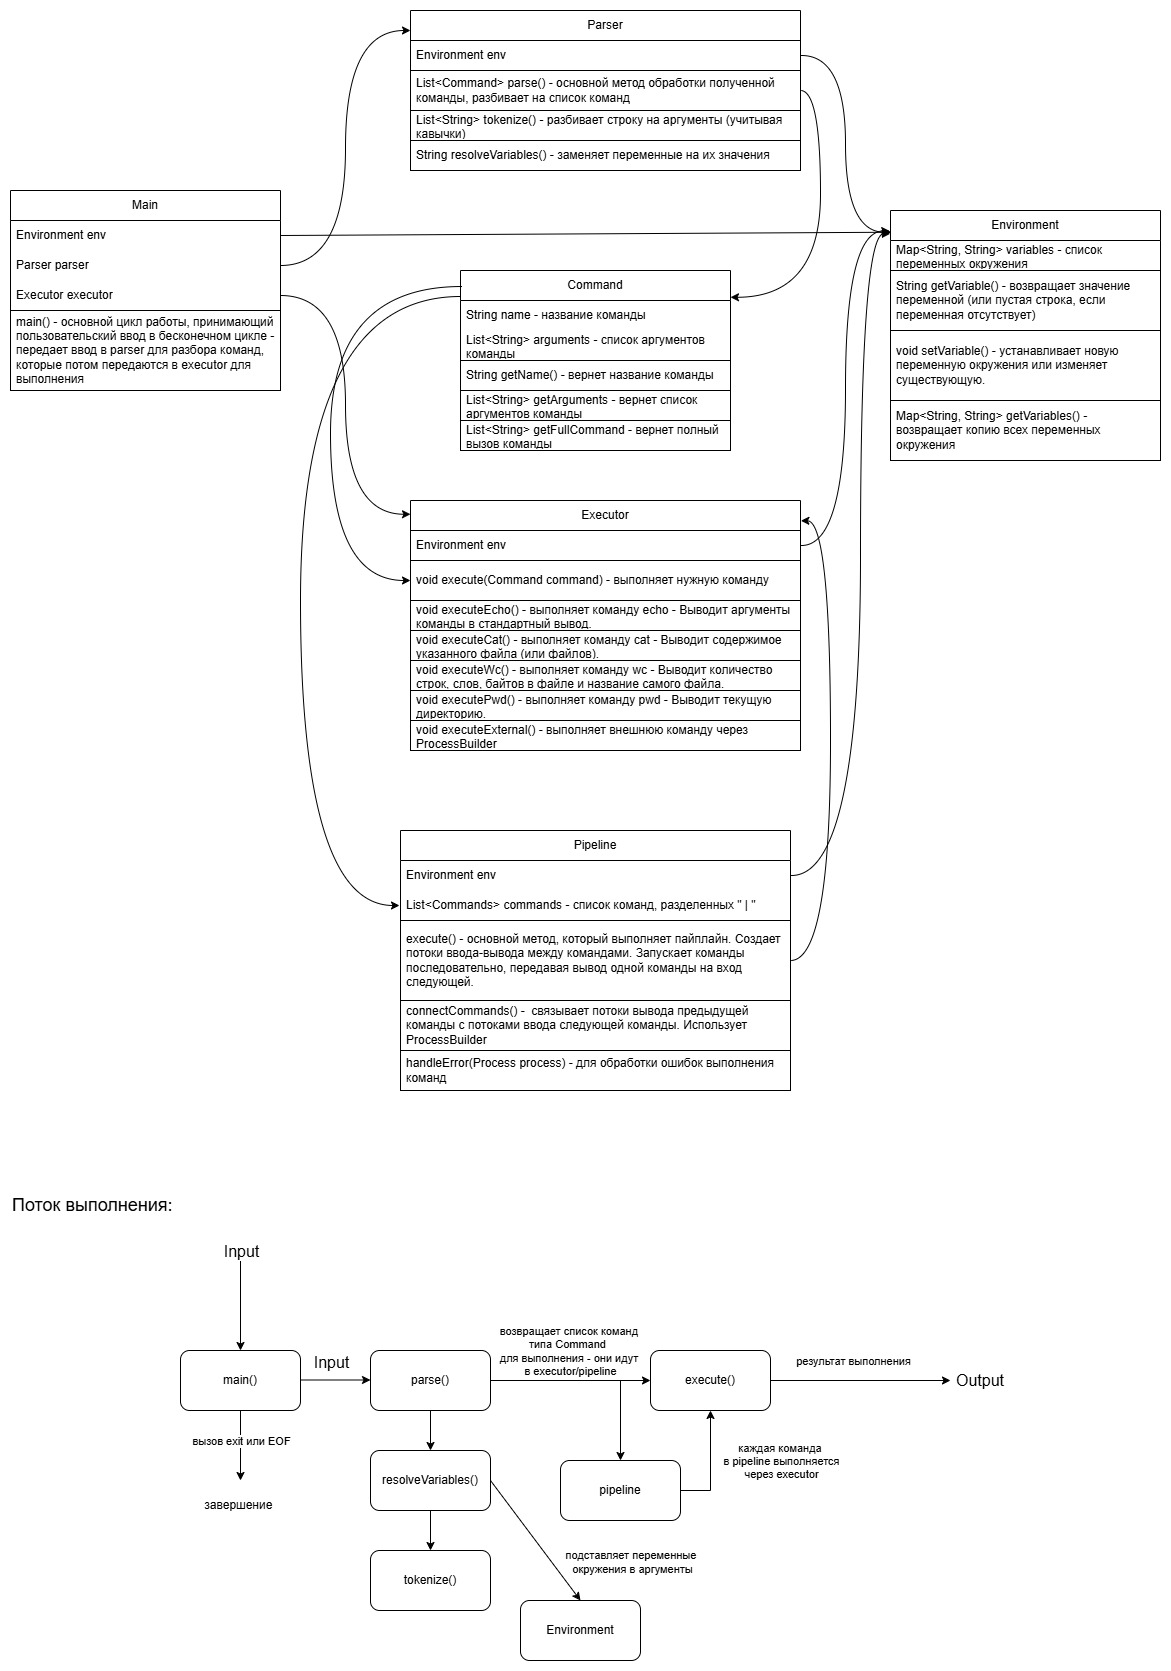
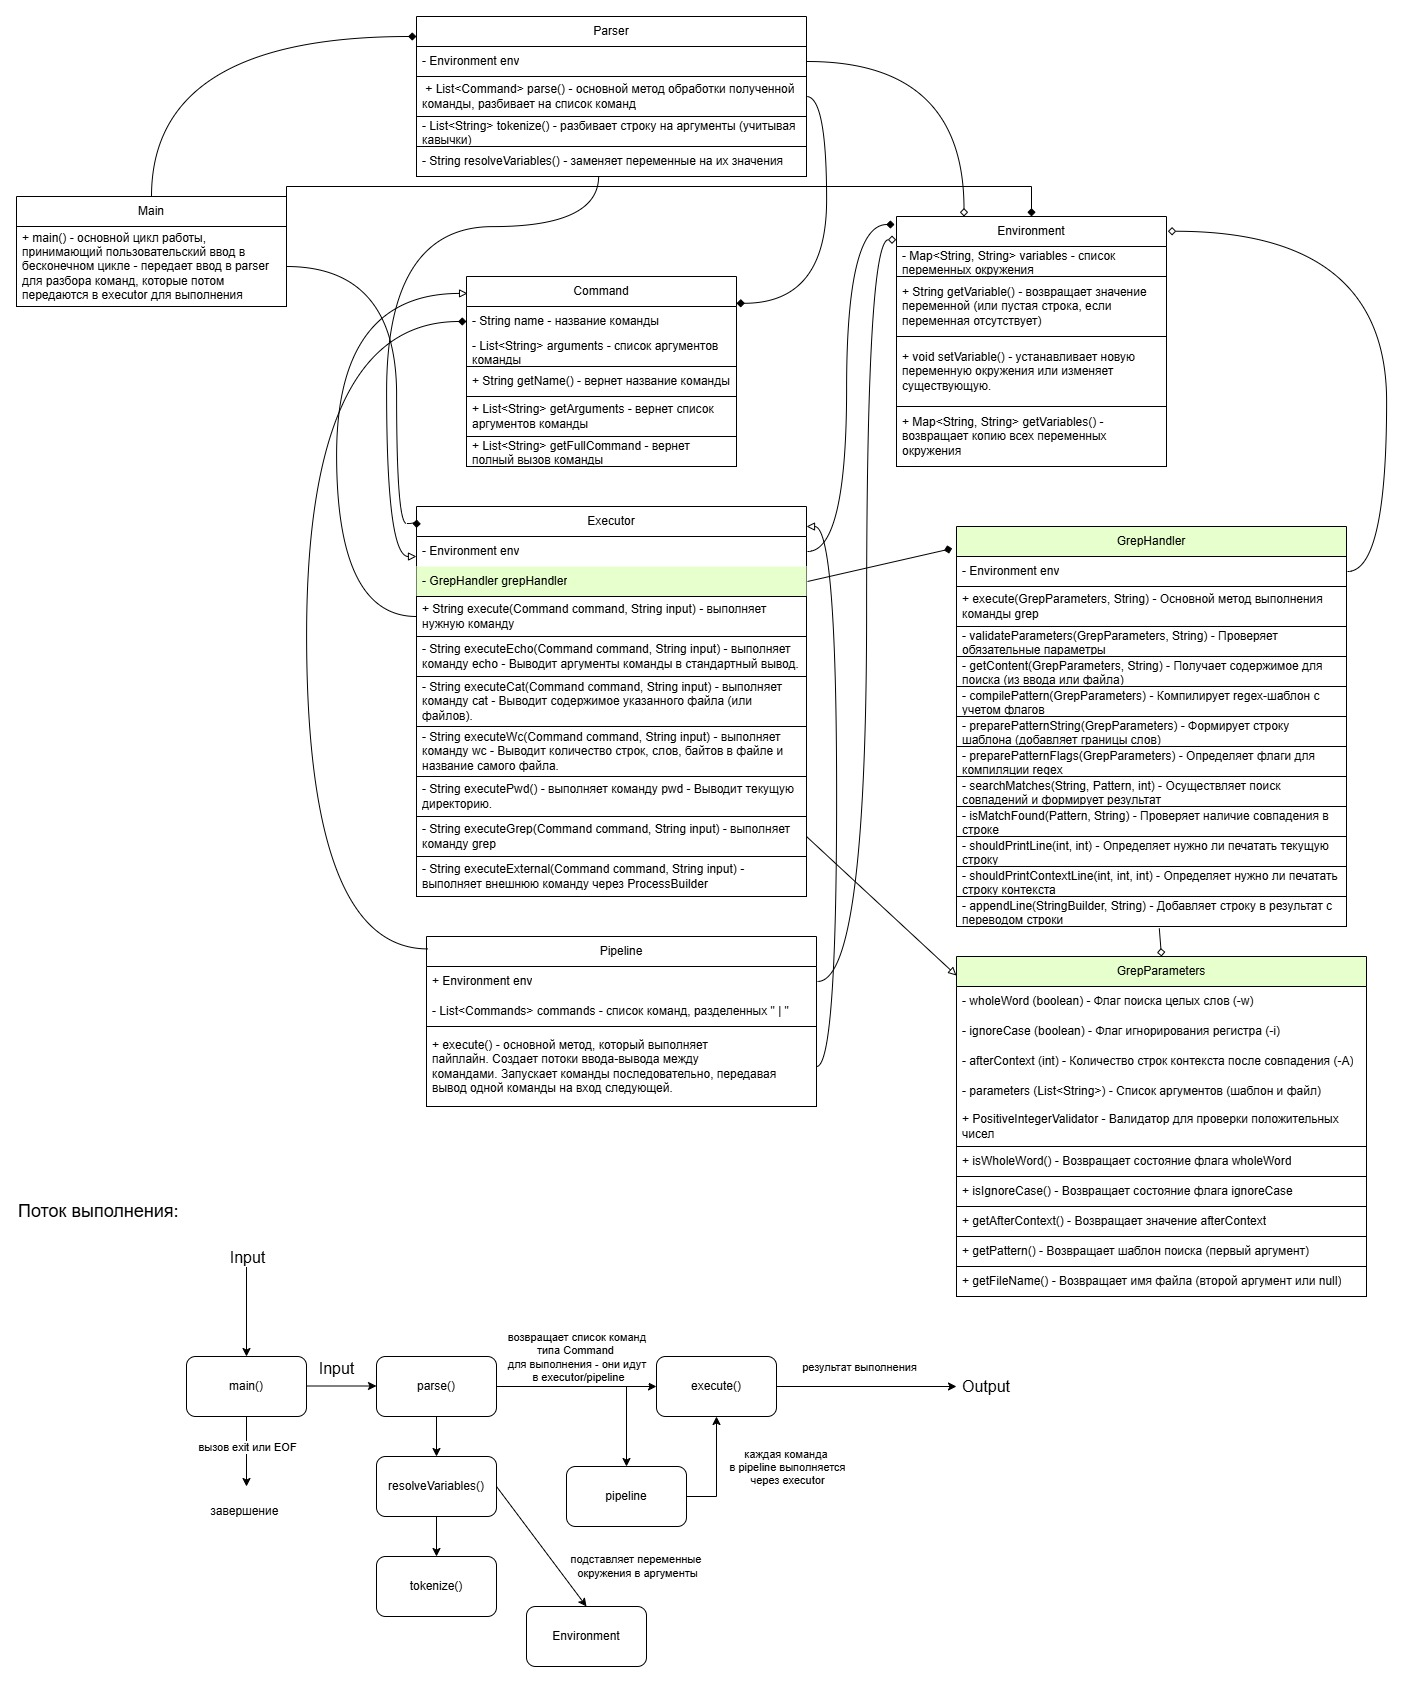
Update architecture docs

diff --git a/src/main/java/org/cli/Parser.java b/src/main/java/org/cli/Parser.java
@@ -10,11 +10,11 @@ import java.util.regex.Pattern;
  */
 public class Parser {
     private final Environment environment;
-    private final Executor executor;
+//    private final Executor executor;
 
     public Parser(Environment environment, Executor executor) {
         this.environment = environment;
-        this.executor = executor;
+//        this.executor = executor;
     }
 
     /**

diff --git a/docs/Описание системы.md b/docs/Описание системы.md
@@ -1,7 +1,7 @@
 ## Описание работы системы
 
 Система - интерпретатор командной строки **CLI**, который поддерживает выполнение втсроенных
-команд (`cat`, `echo`, `wc`, `pwd`, `exit`) и вызов внешних программ.
+команд (`cat`, `echo`, `wc`, `pwd`, `exit`, `grep`) и вызов внешних программ.
 Каждая команда, которая вводится пользователем,
 разбирается на составные части с учетом аргументов, кавычек и переменных окружения. Если введенная команда соответствует
 одной из встроенных, она выполняется напрямую. Иначе она передается для выполнения внешнему процессу.
@@ -30,6 +30,18 @@
 **Pipeline** – отвечает за обработку пайплайнов - последовательности команд, соединенных оператором `|`. Связывает
 команды через потоки ввода-вывода и выполняет команды последовательно, передавая вывод одной команды на вход следующей.
 
+**GrepHandler** – обрабатывает команду `grep` с поддержкой регулярных выражений. Реализует поиск по файлу или входному
+потоку с учетом флагов:
+
+- i (регистронезависимый поиск)
+
+- w (поиск целых слов)
+
+- A NUM (вывод N строк после совпадения)
+
+**GrepParameters** – хранит параметры для команды `grep`, включая шаблон поиска и флаги. Использует `JCommander` для парсинга
+аргументов командной строки.
+
 На [структурной диаграмме](se-hw-diagram.jpg) показана связь между основными классами системы: Main, Parser, Command,
 Executor, Environment, Pipeline, а также их взаимодействие при обработке команд в процессе выполнения.
 
@@ -41,8 +53,7 @@ Executor, Environment, Pipeline, а также их взаимодействие
    оператором `|`, они передаются в `Pipeline` - он связывает команды через потоки ввода-вывода и выполняет их
    последовательно.
 4. Если команда встроенная, она выполняется напрямую через соответсвующие обработчики команд в `Executor`. Если
-   внешняя —
-   запускается через ProccessBuilder.
+   внешняя - запускается через ProccessBuilder.
 5. Результат выводится на экран. Если команда не найдена или произошла ошибка, выводится сообщение об ошибке с
    соответсвующим кодом возврата.
 
@@ -67,3 +78,12 @@ Executor, Environment, Pipeline, а также их взаимодействие
   управляются через `Process.getInputStream()` и `Process.getOutputStream()`. Если любая команда завершилась с ошибкой (
   код возврата != 0), пайплайн должен прекратить выполнение с итоговым кодом возврата = коду последней выполненной
   команды. Если все команды выполнились без ошибок, то итоговый код возврата - код последней команды.
+- Для реализации парсинга аргументов команды grep была выбрана библиотека `JCommander`. Альтернативно рассматривались `Apache Commons CLI`, `Argparse4j`.
+
+    Почему вырана именно `JCommander`?
+    - Лаконичный синтаксис на аннотациях. При использовании `Apache Commons CLI` много шаблонного кода, без аннотаций, а в `Argparse4j` синтаксис сложнее, чем в выбранной библиотеке.
+    - Автоматическая конвертация типов, а в `Apache Commons CLI` ручная обработка типов
+    - Поддержка Unicode
+    - Гибкость — поддерживает короткие (`-i`), длинные (`--ignore-case`) и комбинированные (`-iwA 5`) флаги.
+    
+    `Argparse4j` избыточна для данного проекта, поэтому `JCommander` оказался оптимальным выбором по соотношению простоты и функциональности.
